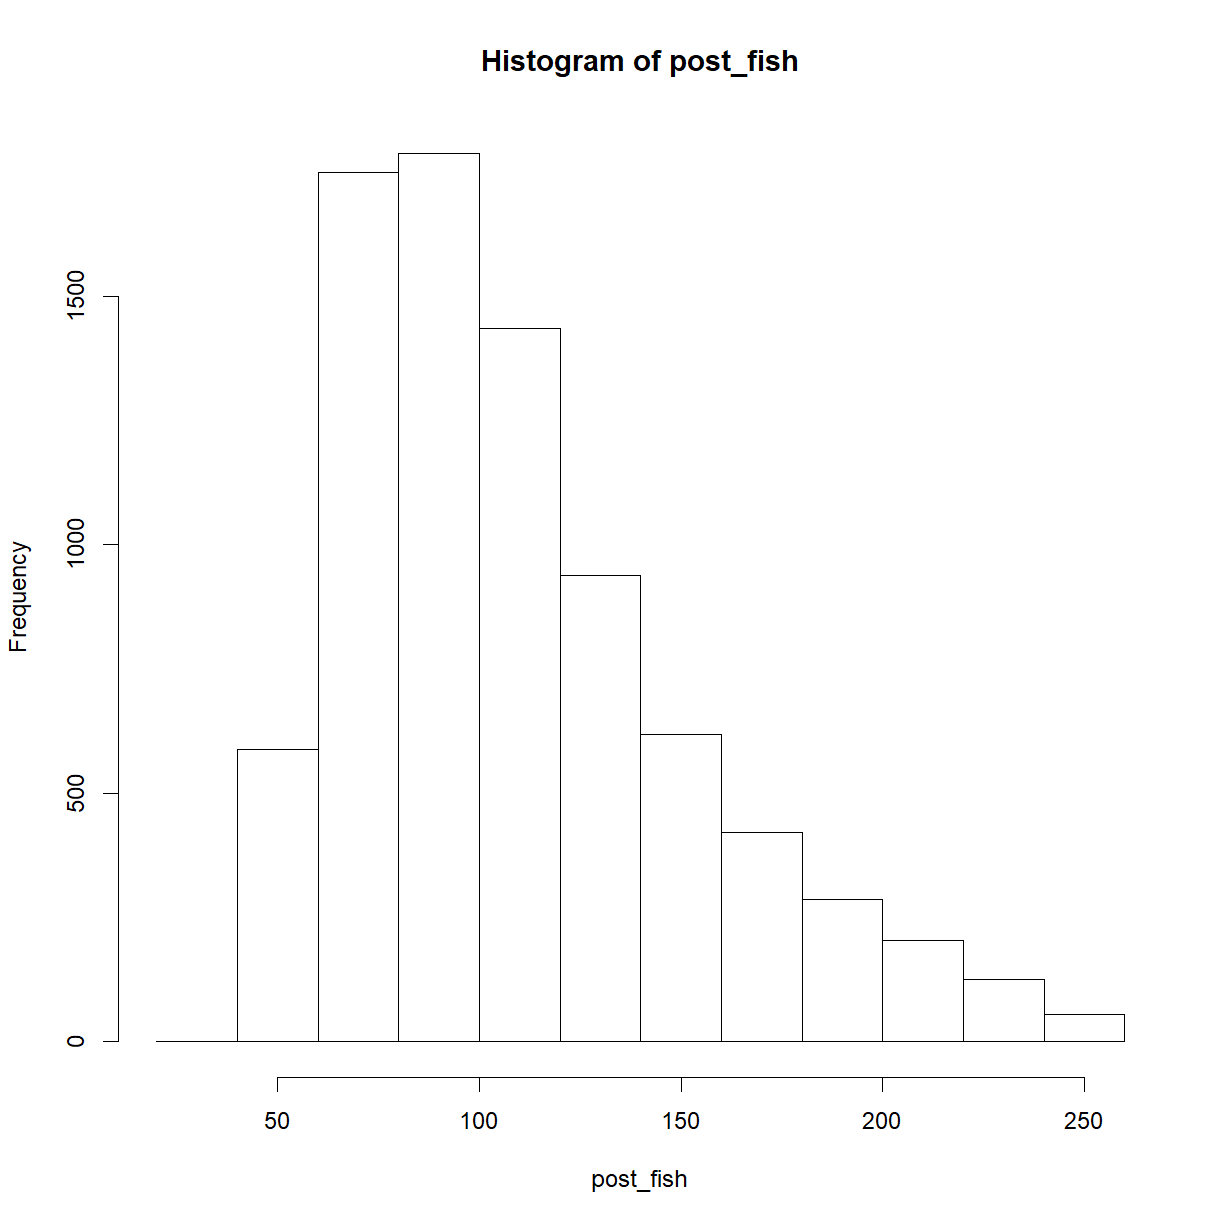
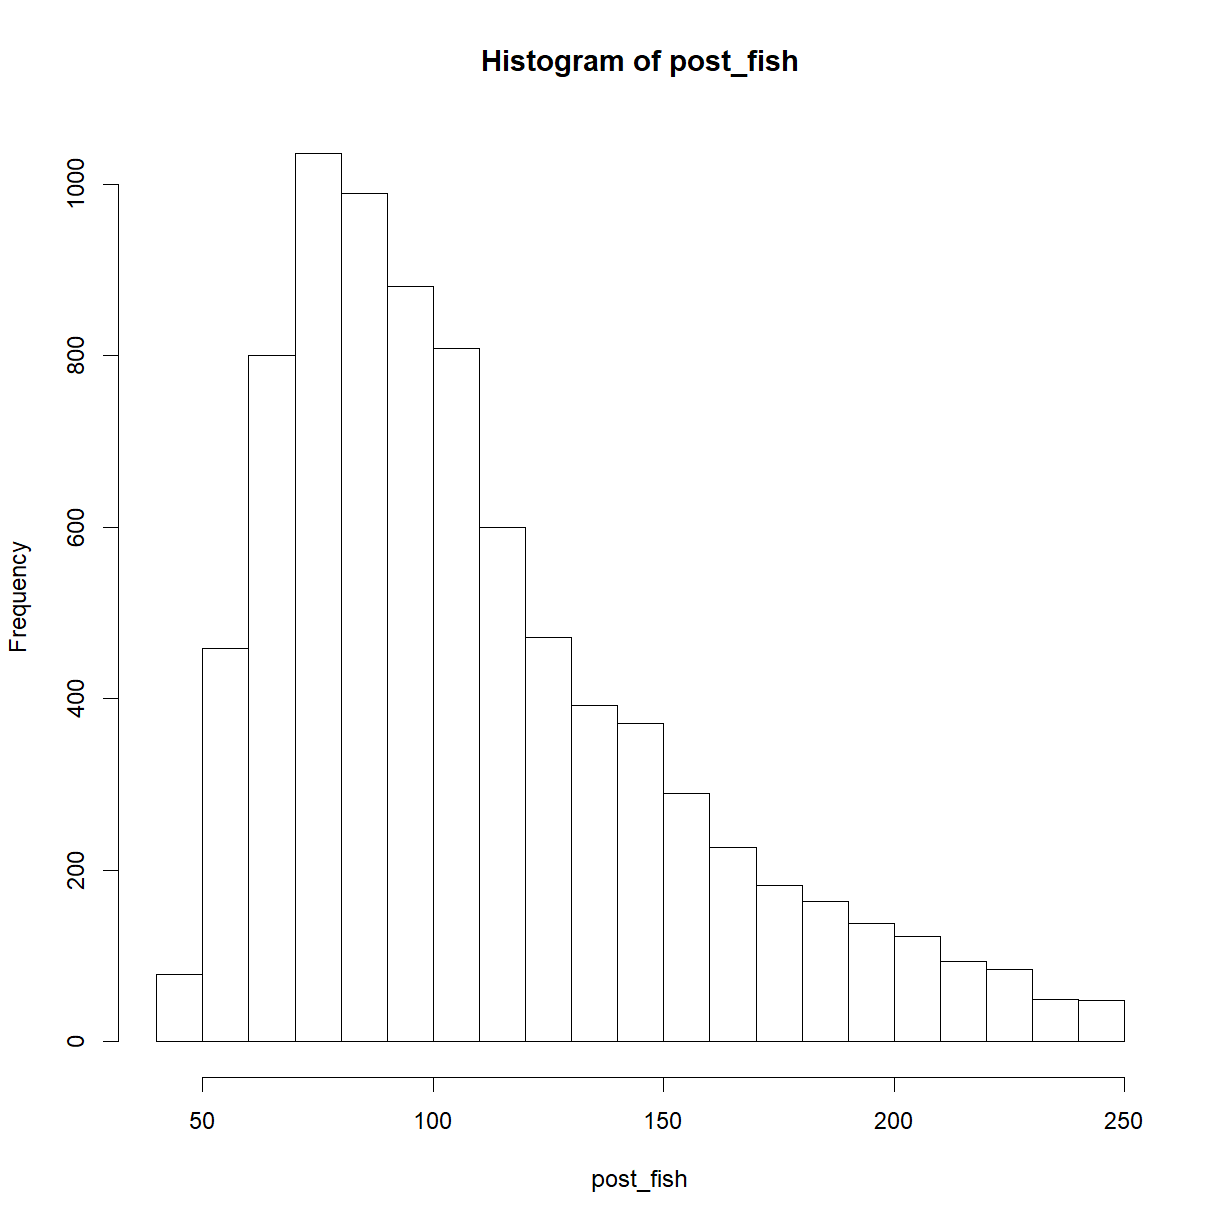
Update headings and set seed so that the graphs won't change.

diff --git a/_episodes/06-bayesian-statistics.md b/_episodes/06-bayesian-statistics.md
@@ -137,13 +137,13 @@ Robustness of the posterior distribution is another important issue, sensitivity
 
 Prediction is also important, the predictive distribution is used.
 
-**1.5 Inference using conjugate prior distributions**
+## 1.5 Inference using conjugate prior distributions
 
 Conjugate prior distributions were used to avoid using intractible posterior distributions. Conjugate prior distributions lead to posterior distributions from the same distributional family.
 
 If you are interested in finding out more about conjugate prior distributions the reference text I am using *Bayesian Modeling Using WinBUGS* by Ioannis Ntzoufras has more details.
 
-**1.6 Simple example from Learning statistics with R with an alternative presentation of Bayesian statistics**
+## 1.6 Simple example from Learning statistics with R with an alternative presentation of Bayesian statistics
 
 The material in this section is from Chapter 17 of Learning Statistics with R
 (<https://learningstatisticswithr.com/book/bayes.htm>). 
@@ -154,7 +154,7 @@ The simple example starts with: *I am carrying an umbrella. Do you think it will
 
 In this problem, you have been presented with a single piece of data ($d$ = I am carrying the umbrella), and you are being ask to tell me your beliefs about whether it’s raining. You have two possible hypotheses, $h$: either it rains today or it does not. How should you solve this problem?
 
-**Priors: what you believed before**
+#### Priors: what you believed before
 
 The first thing you need to do is ignore what I told you about the umbrella, and write down your pre-existing beliefs about rain. This is important: if you want to be honest about how your beliefs have been revised in the light of new evidence, then you must say something about what you believed before those data appeared! So, you might know where the author of this question lives (Adelaide) and you might conclude that the probability of January rain in Adelaide is about 15%, and the probability of a dry day is 85%. If this is really what you believe about Adelaide  then what I have written here is your prior distribution, written $P(h)$:
 
@@ -164,7 +164,7 @@ $$\begin{array}{lc}\hline
 \mbox{Dry day}        &     0.85\\ \hline
 \end{array}$$
 
-**Likelihoods: theories about the data**
+#### Likelihoods: theories about the data
 
 To solve the reasoning problem, you need a theory about my behaviour. When does Dan (the author) carry an umbrella? You might guess that I’m not a complete idiot, and I try to carry umbrellas only on rainy days. On the other hand, you also know that I have young kids, and you wouldn’t be all that surprised to know that I amm pretty forgetful about this sort of thing. Let’s suppose that on rainy days I remember my umbrella about 30% of the time (I really am awful at this). But let’s say that on dry days I’m only about 5% likely to be carrying an umbrella. So you might write out a little table like this:
 
@@ -176,7 +176,7 @@ $$\begin{array}{lcc}\hline
 
 It is important to remember that each cell in this table describes your beliefs about what data  $d$ will be observed, given the truth of a particular hypothesis $h$. This “conditional probability” is written $P(d\|h)$, which you can read as “the probability of $d$ given $h$”. In Bayesian statistics, this is referred to as likelihood of data $d$ given hypothesis $h$.
 
-**The joint probability of data and hypothesis**
+#### The joint probability of data and hypothesis
 
 At this point, all the elements are in place. Having written down the priors and the likelihood, you have all the information you need to do Bayesian reasoning. The question now becomes, how do we use this information? As it turns out, there is a very simple equation that we can use here, but it is important that you understand why we use it, so I’m going to try to build it up from more basic ideas.
 
@@ -220,7 +220,7 @@ h_2 & P(h_2 \cap d_1) & P(h_2 \cap d_2) & P(h_2) \\ \hline
 \end{array}
 $$
 
-**Updating beliefs using Bayes’ rule**
+#### Updating beliefs using Bayes’ rule
 
 The table above is a very powerful tool for solving the rainy day problem, because it considers all four logical possibilities and states exactly how confident you are in each of them before being given any data. It is now time to consider what happens to our beliefs when we are actually given the data. In the rainy day problem, you are told that I really am carrying an umbrella. This is something of a surprising event: according to our table, the probability of me carrying an umbrella is only 8.75%. But that makes sense, right? A guy carrying an umbrella on a summer day in a hot dry city is pretty unusual, and so you really weren’t expecting that. Nevertheless, the problem tells you that it is true. No matter how unlikely you thought it was, you must now adjust your beliefs to accommodate the fact that you now know that I have an umbrella. To reflect this new knowledge, our revised table must have the following numbers:
 
@@ -254,7 +254,7 @@ $$P(h|d)=\frac{P(d|h)\cdot P(h)}{P(d)}$$
 
 This formula is known as Bayes’ rule. It describes how a learner starts out with prior beliefs about the plausibility of different hypotheses, and tells you how those beliefs should be revised in the face of data. In the Bayesian paradigm, all statistical inference flows from this one simple rule.
 
-**Bayesian hypothesis tests**
+#### Bayesian hypothesis tests
 
 The Bayesian approach to hypothesis testing is  simple. Using a setting that is closely analogous to the classical approach. There are two hypotheses that we want to compare, a null hypothesis  $h_0$
  and an alternative hypothesis $h_1$. Prior to running the experiment we have some beliefs  
@@ -266,7 +266,7 @@ This formula tells us exactly how much belief we should have in the null hypothe
 
 $$P(h_1|d)=\frac{P(d|h_1)\cdot P(h_1)}{P(d)}$$
  
-**1.6.2 The Bayes factor**
+### 1.6.2 The Bayes factor
 
 In practice, most Bayesian data analysts tend not to talk in terms of the raw posterior probabilities $P(h_0\|d)$ and $P(h_1\|d)$. Instead, we tend to talk in terms of the posterior odds ratio. Think of it like betting. Suppose, for instance, the posterior probability of the null hypothesis is 25%, and the posterior probability of the alternative is 75%. The alternative hypothesis is three times as probable as the null, so we say that the odds are 3:1 in favour of the alternative. Mathematically, all we have to do to calculate the posterior odds is divide one posterior probability by the other:
 
@@ -280,7 +280,7 @@ Actually, this equation is worth expanding on. There are three different terms h
 
 The Bayes factor (sometimes abbreviated as BF) has a special place in the Bayesian hypothesis testing, because it serves a similar role to the  p-value in orthodox hypothesis testing: it quantifies the strength of evidence provided by the data, and as such it is the Bayes factor that people tend to report when running a Bayesian hypothesis test. The reason for reporting Bayes factors rather than posterior odds is that different researchers will have different priors. Some people might have a strong bias to believe the null hypothesis is true, others might have a strong bias to believe it is false. Because of this, the polite thing for an applied researcher to do is report the Bayes factor. That way, anyone reading the paper can multiply the Bayes factor by their own personal prior odds, and they can work out for themselves what the posterior odds would be. In any case, by convention we like to pretend that we give equal consideration to both the null hypothesis and the alternative, in which case the prior odds equals 1, and the posterior odds becomes the same as the Bayes factor.
 
-**Interpreting Bayes factors**
+#### Interpreting Bayes factors
 
 The Bayes factor numbers are inherently meaningful. If you run an experiment and you compute a Bayes factor of 4, it means that the evidence provided by your data corresponds to betting odds of 4:1 in favour of the alternative. However, there have been some attempts to quantify the standards of evidence that would be considered meaningful in a scientific context. The two most widely used are from Jeffreys (1961) and Kass and Raftery (1995). Of the two, I tend to prefer the Kass and Raftery (1995) table because it’s a bit more conservative. So here it is in words: A Bayes factor 1 - 3 is interpreted as negligible evidence, a Bayes factor of 3-20 is interpreted as positive evidence, a Bayes factor of 20-150 is interpreted as strong evidence, and a Bayes factor greater than 150 is interpreted as very strong evidence.
 
@@ -288,26 +288,16 @@ There are no hard and fast rules here: what counts as strong or weak evidence de
 
 Note that all the numbers above make sense if the Bayes factor is greater than 1 (i.e., the evidence favours the alternative hypothesis). However, one big practical advantage of the Bayesian approach relative to the orthodox approach is that it also allows you to quantify evidence for the null. When that happens, the Bayes factor will be less than 1. You can choose to report a Bayes factor less than 1. Instead could take reciprical of BF, call it BF', The statements about the BF given earlier now refer to the evidence in favou of the null hypothesis.
 
-**1.6.3 EXAMPLE from Rasmus Bååth, Lund University**
+### 1.6.3 EXAMPLE from Rasmus B&aring;&aring;th, Lund University
 
-**How many fish are in the lake?**
+#### How many fish are in the lake?
 
 This is an actual problem in Abundance estimation which is used in, for example, wildlife management.
 
 - The problem: We can’t catch them all.
 - But we can catch some of them...
 
-**Mark an recapure**
-
-1. Catch a couple of fish.
-2. Mark them and throw them back.
-
-**Mark an recapure**
-
-1. Catch a couple of fish.
-2. Mark them and throw them back.
-
-**Mark and Re-capture**
+#### Mark and re-capture
 
 1. Catch a couple of fish.
 2. Mark them and throw them back.
@@ -316,7 +306,7 @@ This is an actual problem in Abundance estimation which is used in, for example,
 
 Twenty were marked and five out of the 20 that were caught the second time were marked.
 
-**So, how many fish are in the lake?**
+#### So, how many fish are in the lake?
 
 - What are the probable number of fish in the lake?
 - We have almost already described the solution! (If we know about Bayesian Data Analysis, that is...)
@@ -335,14 +325,16 @@ Our parameters contain uncertainty, we repeat the procedure, the number of marke
 
 We could model the prior distribution for the parameters as being `Uniform(0, 250)`.
 
-**One simple way of fitting the model**
+#### One simple way of fitting the model
 
 1. Draw a large random sample from the “prior” probability distribution on the parameters.
 2. Plug in each draw into the generative model which generates a vector of “fake” data. 
 
-**Original capture re-capture using approximate Bayesian Computation**
+#### Original capture re-capture using approximate Bayesian Computation
 
 From <http://rpubs.com/rasmusab/live_coding_user_2015_bayes_tutorial>
+
+
 
 
 ~~~
@@ -383,8 +375,7 @@ barplot(table(cut(post_fish, seq(0, 250, 20))) / length(post_fish), col = "salmo
 
 <img src="../fig/rmd-fish_barplot-1.png" title="plot of chunk fish_barplot" alt="plot of chunk fish_barplot" width="612" style="display: block; margin: auto;" />
 
-
-**Modified model that accounts for that marked fish get “shy”**
+#### Modified model that accounts for that marked fish get “shy”
 
 
 ~~~
@@ -420,7 +411,7 @@ length(post_fish)
 
 
 ~~~
-[1] 4389
+[1] 4359
 ~~~
 {: .output}
 
@@ -432,7 +423,7 @@ barplot(table(cut(post_fish, seq(0, 250, 20))) / length(post_fish), col = "salmo
 
 <img src="../fig/rmd-fish_barplot2-1.png" title="plot of chunk fish_barplot2" alt="plot of chunk fish_barplot2" width="612" style="display: block; margin: auto;" />
 
-**Modified model that accounts for the “expert” opinion of the fisherman**
+#### Modified model that accounts for the “expert” opinion of the fisherman
 
 
 ~~~
@@ -475,7 +466,7 @@ length(post_fish)
 
 
 ~~~
-[1] 1904
+[1] 1858
 ~~~
 {: .output}
 
@@ -487,20 +478,20 @@ barplot(table(cut(post_fish, seq(0, 250, 20))) / length(post_fish), col = "salmo
 
 <img src="../fig/rmd-fish_expert_barplot-1.png" title="plot of chunk fish_expert_barplot" alt="plot of chunk fish_expert_barplot" width="612" style="display: block; margin: auto;" />
 
-**A JAGS implementation of the original model**
+#### A JAGS implementation of the original model
 
 I couldn't get the JAGS package to work. You might have more luck.
 
-Here the dhyper distribution (Hypergeometric distribution) is used as it implements the same process as the fish picking model. Look at above URL for code.
+Here the `dhyper` distribution (Hypergeometric distribution) is used as it implements the same process as the fish picking model. Look at above URL for code.
 
-**1.7 Bayesian versions of various statistical tests**
+## 1.7 Bayesian versions of various statistical tests
 
 These are brief notes from Chapter 17 of Learning Statistics with R
 (<https://learningstatisticswithr.com/book/bayes.htm>). I have removed some of the author's comments and cherry picked what I wanted. Please note that the Creative Commons license is <https://creativecommons.org/licenses/by-sa/4.0/>.
 
-**1.7.1 Bayesian analysis of contingency tables**
+### 1.7.1 Bayesian analysis of contingency tables
 
-She uses a data set that I have saved as **chapek9.csv**
+She uses a data set that I have saved as `chapek9.csv`.
 
 
 ~~~
@@ -622,7 +613,7 @@ str(new1)
 ~~~
 {: .output}
 
-**The orthodox test**
+#### The orthodox test
 
 
 ~~~
@@ -686,7 +677,7 @@ Other information:
 
 Because we found a small  p-value (p<0.01), we concluded that the data are inconsistent with the null hypothesis of no association, and we rejected it.
 
-**The Bayesian test**
+#### The Bayesian test
 
 The `BayesFactor` R package is going to be used.
 
@@ -731,7 +722,7 @@ Bayes factor type: BFcontingencyTable, joint multinomial
 
 The Bayes factor is 15.92684. It is  telling you that the odds for the alternative hypothesis against the null are about 16:1. The ± 0% part is not very interesting: essentially, all it’s telling you is that R has calculated an exact Bayes factor, so the uncertainty about the Bayes factor is 0%. In any case, the data are telling us that we have moderate evidence for the alternative hypothesis.
 
-**Other sampling plans**
+#### Other sampling plans
 
 Up to this point all I’ve shown you is how to use the contingencyTableBF() function for the joint multinomial sampling plan (i.e., when the total sample size N is fixed, but nothing else is). For the Poisson sampling plan (i.e., nothing fixed), the command you need is identical except for the sampleType argument:
 
@@ -793,7 +784,7 @@ Let's look at the following "toy" example:
 
 
 ~~~
-toys <- data.frame(stringsAsFactors=FALSE,
+toys <- data.frame(stringsAsFactors = FALSE,
         gender = c("girl", "boy"),
         pink = c(8, 2),
         blue = c(2, 8)
@@ -837,11 +828,11 @@ I can't get the Bayesian test with hypergeometric sampling to work.
 contingencyTableBF(toys, sampleType = "hypergeom")
 ```
 
-**1.7.2 Bayesian t-tests**
+### 1.7.2 Bayesian t-tests
 
 The BayesFactor package contains a function called ttestBF() that is flexible enough to run several different versions of the  t-test. The Bayesian versions of the independent samples  t-tests and the paired samples t-test in will be demonstrated.
 
-**Independent samples  t-test**
+#### Independent samples t-test
 
 
 ~~~
@@ -906,7 +897,7 @@ You should focus on the part that reads 1.754927. This is the Bayes factor: the 
 
 Before moving on, it’s worth highlighting the difference between the orthodox test results and the Bayesian one. According to the orthodox test, we obtained a significant result, though only barely. Nevertheless, many people would happily accept  p=0.043 as reasonably strong evidence for an effect. In contrast, notice that the Bayesian test doesn’t even reach 2:1 odds in favour of an effect, and would be considered very weak evidence at best. In my experience that’s a pretty typical outcome. Bayesian methods usually require more evidence before rejecting the null.
 
-**Paired samples  t-test**
+#### Paired samples t-test
 
 
 ~~~
@@ -997,7 +988,7 @@ Bayes factor type: BFoneSample, JZS
 
 The BF is 5992.05. The data provide evidence of about 6000:1 in favour of the alternative. We could probably reject the null with some confidence!
 
-**1.7.3 Bayesian regression**
+### 1.7.3 Bayesian regression
 
 
 ~~~
@@ -1081,7 +1072,7 @@ plot(model)
 
 Might be prepared to say model assumptions hold.
 
-**The Bayesian version**
+#### The Bayesian version
 
 Okay, so how do we do the same thing using the `BayesFactor` package? The easiest way is to use the `regressionBF` function instead of `lm`. As before, we use formula to indicate what the full regression model looks like, and the data argument to specify the data frame. So the command is:
 
@@ -1118,9 +1109,9 @@ Bayes factor type: BFlinearModel, JZS
 
 The output, however, is a little different from what you get from `lm`. The format of this is pretty familiar. What’s new is the fact that we seem to have lots of Bayes factors here. What’s all this about?
 
-The trick to understanding this output is to recognise that if we’re interested in working out which of the 3 predictor variables are related to `myGrump`, there are actually 8 possible regression models that could be considered. One possibility is the intercept only model, in which none of the three variables have an effect. At the other end of the spectrum is the full model in which all three variables matter. So what `regressionBF` does is treat the intercept only model as the null hypothesis, and print out the Bayes factors for all other models when compared against that null. For example, if we look at line 4 in the table, we see that the evidence is about  $10^{33}$ to 1 in favour of the claim that a model that includes both mySleep and day is better than the intercept only model. Or if we look at line 1, we can see that the odds are about 1.6 × $10^{34}$ that a model containing the `mySleep` variable (but no others) is better than the intercept only model.
+The trick to understanding this output is to recognise that if we’re interested in working out which of the 3 predictor variables are related to `myGrump`, there are actually 8 possible regression models that could be considered. One possibility is the intercept only model, in which none of the three variables have an effect. At the other end of the spectrum is the full model in which all three variables matter. So what `regressionBF` does is treat the intercept only model as the null hypothesis, and print out the Bayes factors for all other models when compared against that null. For example, if we look at line 4 in the table, we see that the evidence is about $10^{33}$ to 1 in favour of the claim that a model that includes both mySleep and day is better than the intercept only model. Or if we look at line 1, we can see that the odds are about 1.6 × $10^{34}$ that a model containing the `mySleep` variable (but no others) is better than the intercept only model.
 
-**Finding the best model**
+#### Finding the best model
 
 In practice, this isn’t helpful. In most situations the intercept only model is the one that you don’t really care about at all. What I find helpful is to start out by working out which model is the best one, and then seeing how well all the alternatives compare to it. Here’s how you do that. In this case, it’s easy enough to see that the best model is actually the one that contains `mySleep` only (line 1), because it has the largest Bayes factor. However, if you’ve got a lot of possible models in the output, it’s handy to know that you can use the `head` function to pick out the best few models. First, we have to go back and save the Bayes factor information to a variable:
 
@@ -1262,7 +1253,7 @@ Bayes factor type: BFlinearModel, JZS
 
 Okay, so now you can see the results a bit more clearly. The Bayes factor when you try to drop the mySleep predictor is about  $10^{−26}$, which is very strong evidence that you shouldn’t drop it. On the other hand, the Bayes factor actually goes up to 17 if you drop `babySleep`, so you’d usually say that’s pretty strong evidence for dropping that one.
 
-**1.8 Bayesian ANOVA**
+## 1.8 Bayesian ANOVA
 
 The BayesFactor package is pretty flexible, and can do more things. There’s only one other topic I want to cover: Bayesian ANOVA.
 
@@ -1326,7 +1317,7 @@ str(clin.trial)
 ~~~
 {: .output}
 
-Traditional ANOVA
+#### Traditional ANOVA
 
 
 ~~~
@@ -1356,7 +1347,7 @@ Signif. codes:  0 '***' 0.001 '**' 0.01 '*' 0.05 '.' 0.1 ' ' 1
 
 Provided model assumptions hold, we conclude that there is evidence for a main effect of drug at p<0.001, an effect of therapy at p<0.05 and no interaction.
 
-**The Bayesian version**
+#### The Bayesian version
 
 How do we do the same thing using Bayesian methods? The `BayesFactor` package contains a function called `anovaBF`) that does this for you. It uses a pretty standard formula and data structure, so the command should look really familiar. Just like we did with regression, it will be useful to save the output to a variable:
 
@@ -1384,8 +1375,8 @@ Bayes factor analysis
 --------------
 [1] drug                          : 245.9026  ±0%
 [2] therapy                       : 0.7316007 ±0%
-[3] drug + therapy                : 715.6397  ±1.48%
-[4] drug + therapy + drug:therapy : 684.1846  ±1.12%
+[3] drug + therapy                : 692.9066  ±1.26%
+[4] drug + therapy + drug:therapy : 689.588   ±1.13%
 
 Against denominator:
   Intercept only 
@@ -1407,10 +1398,10 @@ models/max(models)
 ~~~
 Bayes factor analysis
 --------------
-[1] drug                          : 0.3436123   ±1.48%
-[2] therapy                       : 0.001022303 ±1.48%
+[1] drug                          : 0.3548856   ±1.26%
+[2] therapy                       : 0.001055843 ±1.26%
 [3] drug + therapy                : 1           ±0%
-[4] drug + therapy + drug:therapy : 0.9560462   ±1.86%
+[4] drug + therapy + drug:therapy : 0.9952106   ±1.69%
 
 Against denominator:
   mood.gain ~ drug + therapy 
@@ -1421,7 +1412,7 @@ Bayes factor type: BFlinearModel, JZS
 
 By “dividing” the models output by the best model (i.e., `max(models))`, what R is doing is using the best model (which in this case is `drugs + therapy`) as the denominator, which gives you a pretty good sense of how close the competitors are. For instance, the model that contains the interaction term is almost as good as the model without the interaction, since the Bayes factor is 0.98. In other words, the data do not clearly indicate whether there is or is not an interaction.
 
-**REFERENCES**
+## REFERENCES
 
 Ntzoufras, I. (2009) *Bayesian Modeling Using WinBUGS.* New Jersey: John Wiley and Sons.
 
@@ -1430,3 +1421,5 @@ Navarro, D. (2019) *Learning statistics with R: A tutorial for psychology studen
 
 Baath, R. (2015) "Introduction to Bayesian Data Analysis using R." UseR! Conference 2015. 
 <https://analisereal.files.wordpress.com/2015/07/user_2015_tutorial_bayesian_data_analysis_short_version.pdf>
+
+{% include links.md %}
